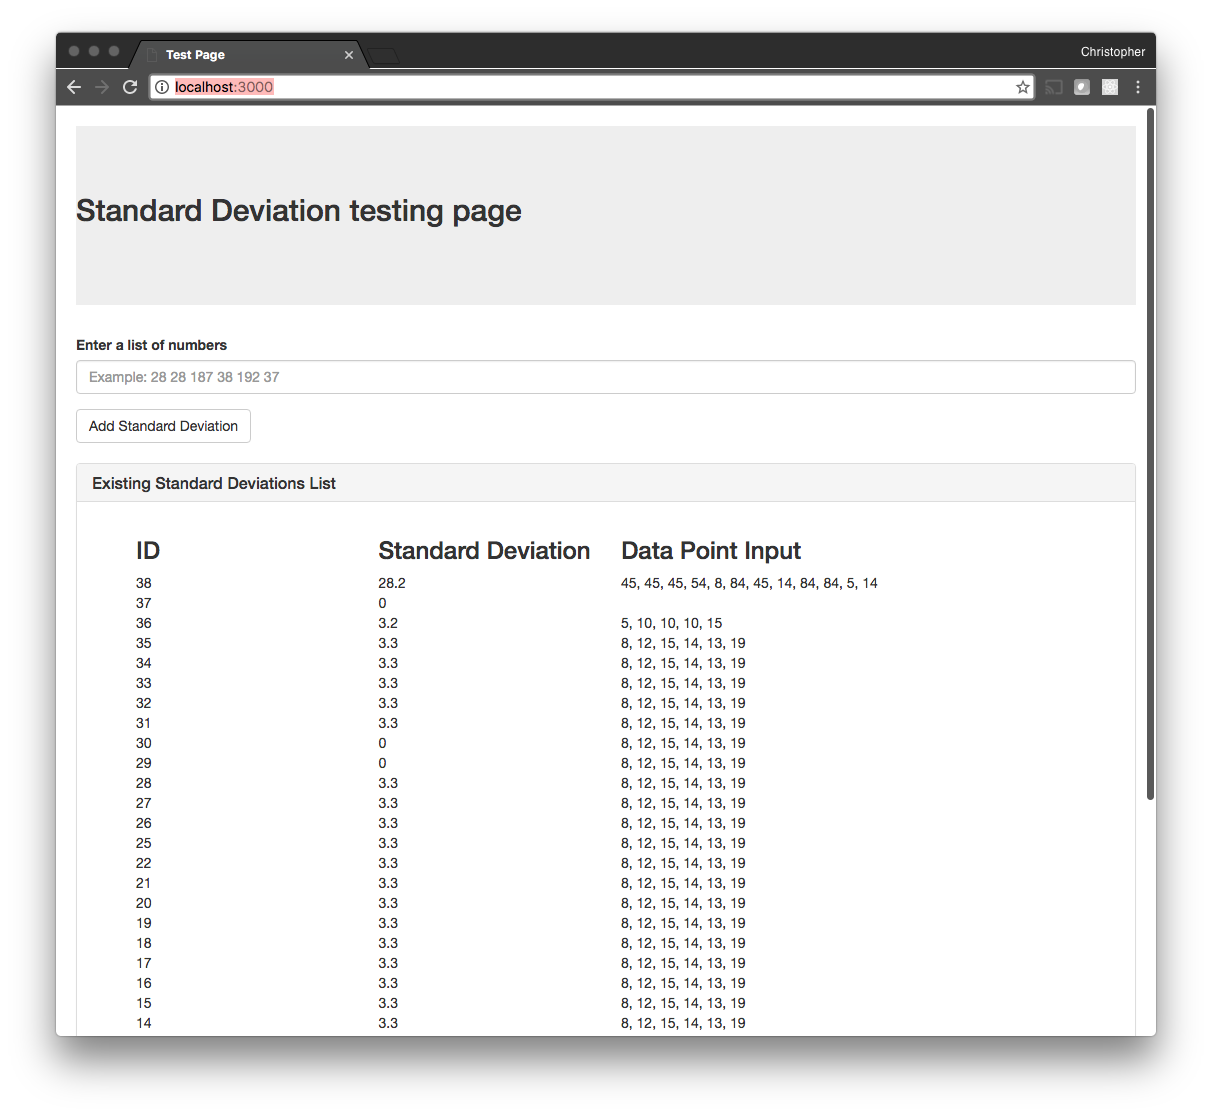
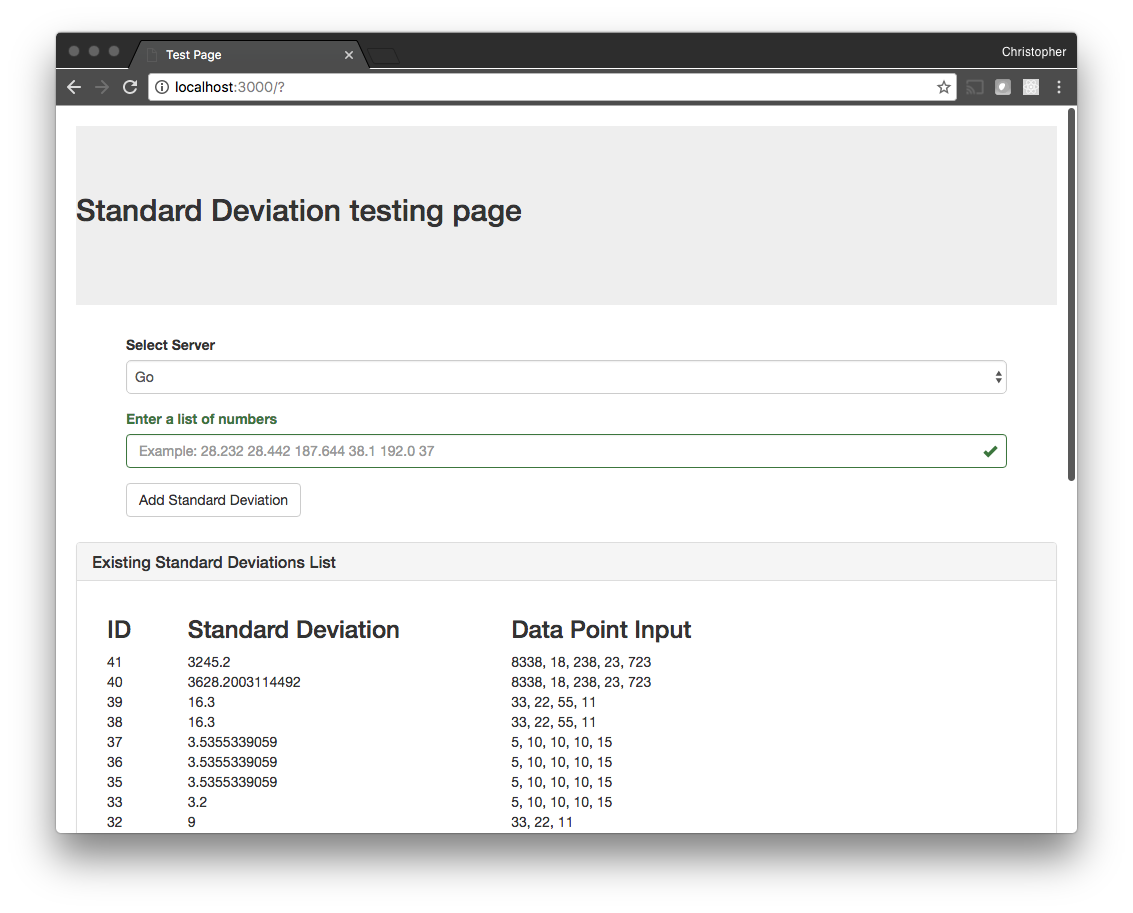
updated readme and screenshot; adjusted width of input on form

Changed region(s): [[0.0309, 0.0, 0.9576, 0.9507], [0.865, 0.4907, 0.8959, 0.5214]]

diff --git a/src/jsx/app.jsx b/src/jsx/app.jsx
@@ -116,7 +116,7 @@ export class NewStdDevForm extends React.Component {
     }
 
     render() {
-        return (<div className="std-dev-input-form">
+        return (
             <form>
                 <FormGroup controlId="formBasicText" validationState={this.handleValidation()}>
                     <ControlLabel>Enter a list of numbers</ControlLabel>
@@ -133,7 +133,7 @@ export class NewStdDevForm extends React.Component {
                         Deviation</Button>
                 </ButtonToolbar>
             </form>
-        </div>)
+        )
     }
 }
 
@@ -201,10 +201,12 @@ export default class App extends React.Component {
     render() {
         return (<div>
             <AppHeader/>
-            <ServerChoice serverChangeListener={this.serverChanged.bind(this)}/>
-            <NewStdDevForm newStandardDeviationListener={this.newStandardDeviation.bind(this)}
-                           server={this.state.server}
-                           ref={(r) => this.newStandardDeviationList = r}/>
+            <div className="std-dev-input-form">
+                <ServerChoice serverChangeListener={this.serverChanged.bind(this)}/>
+                <NewStdDevForm newStandardDeviationListener={this.newStandardDeviation.bind(this)}
+                               server={this.state.server}
+                               ref={(r) => this.newStandardDeviationList = r}/>
+            </div>
             <ListStdDevs standardDeviations={[]} server={this.state.server}
                          ref={(r) => this.standardDeviationList = r}/>
         </div>);

diff --git a/README.md b/README.md
@@ -17,8 +17,13 @@ This project was built with the following technologies, which are therefore also
 - [React.js](link:https://facebook.github.io/react/)
 - [React-Bootstrap](link:https://react-bootstrap.github.io/)
 - [Postman](link:https://www.getpostman.com/)
+- [Ruby](link:https://www.ruby-lang.org/)
+- [Sinatra](link:http://www.sinatrarb.com/)
 
-To make full use of this project, you will need to have these installed.  Minimally, a recent, native, version of Docker (which includes the docker-compose command line utility), a working command-line Go SDK (only for 'go get' library retrieval), and npm will nbe necessary to run the environment.
+To make full use of this project, you will need to, at minimum, have the following installed:
+ - recent, native (non-native could work, but is untested), version of Docker (which includes the docker-compose command line utility)
+ - Go SDK (for 'go get' package management)
+ - npm 
 
 ###Instructions for Usage
 After checking out this project, you will have to start a docker-compose instance of the Go server (Gin) and start up webpack.  These will provide you with a base running environment which you can then work with.
@@ -42,6 +47,8 @@ Once you've completed the above, you shoul dhave a running environment.  You wil
 ![Screenshot][screenshot]
 
 Also provided is a small series of [Postman](link:https://www.getpostman.com/) tests for the web services (/RX.postman.json).
+
+Web services are written in both Go (using gorilla) and Ruby (using sinatra).  The drop-down "Server" can choose which is used to submit new standard deviations, but all go to the same database.  In the future, the list of existing will also come from the selected server.
 
 ###Future Additions
 Future additions will likely include more extensive client-side unit testing and BDD-style tests in Ruby-Cucumber.
